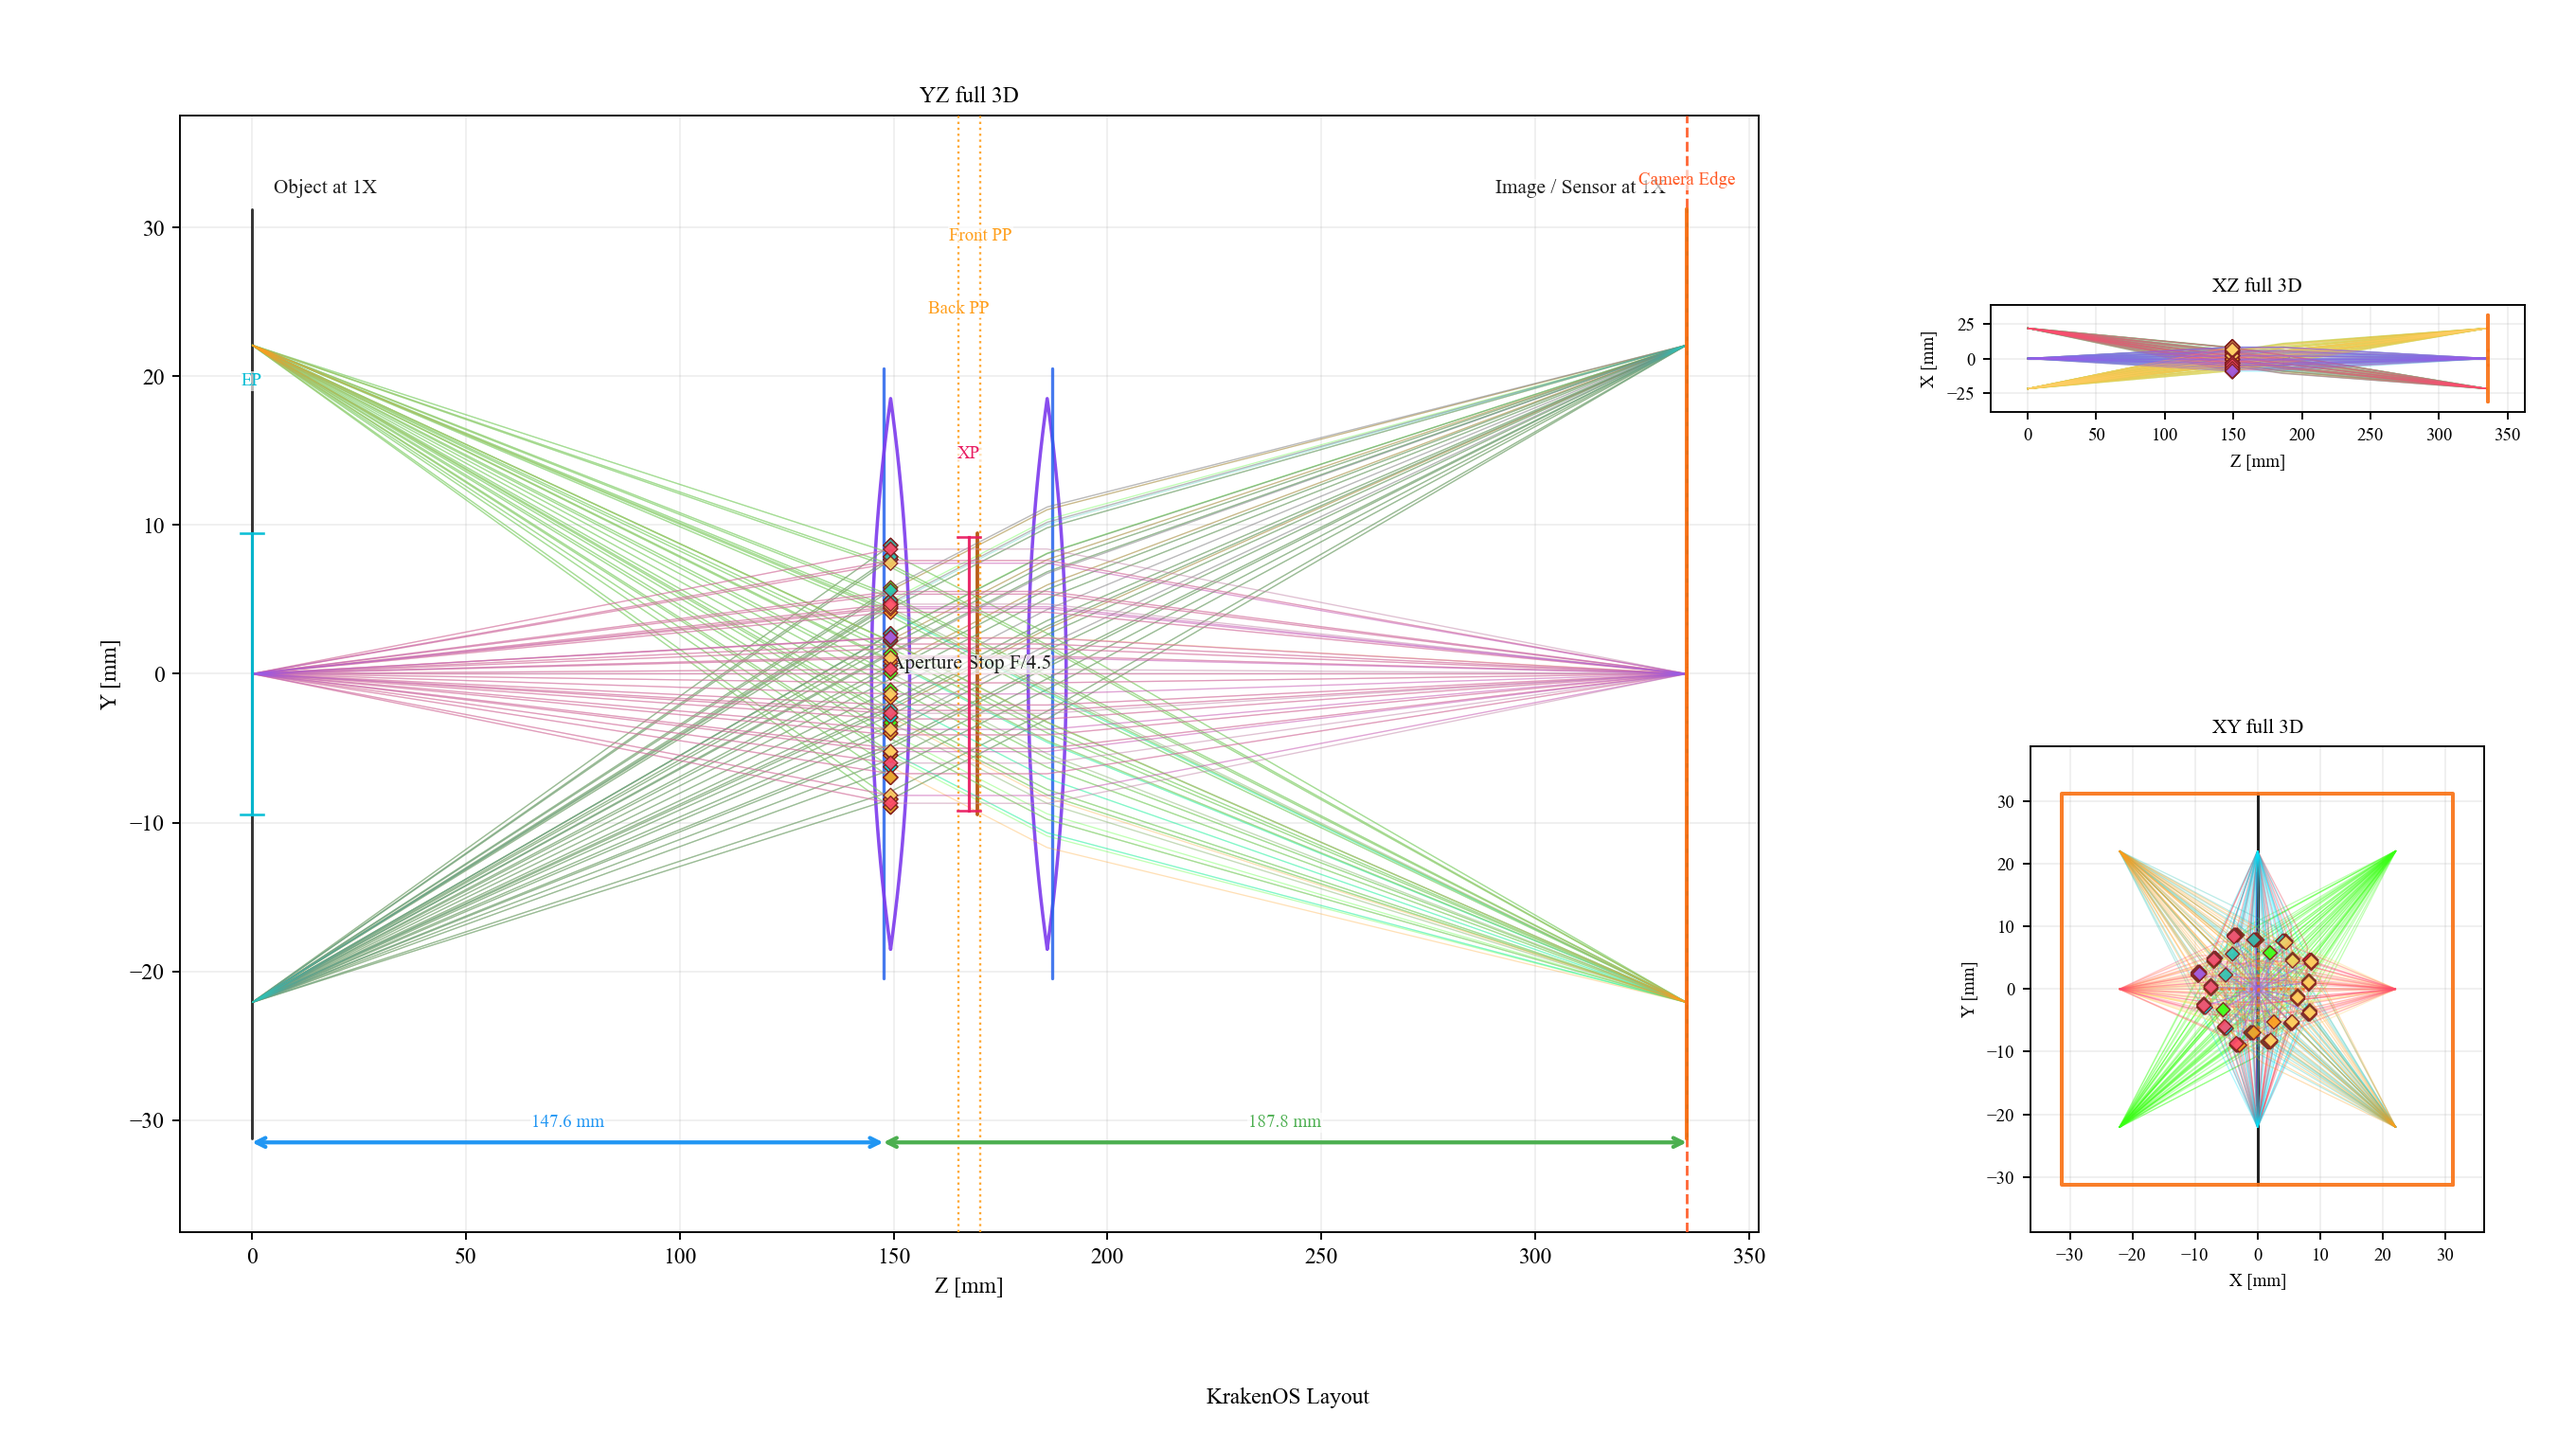
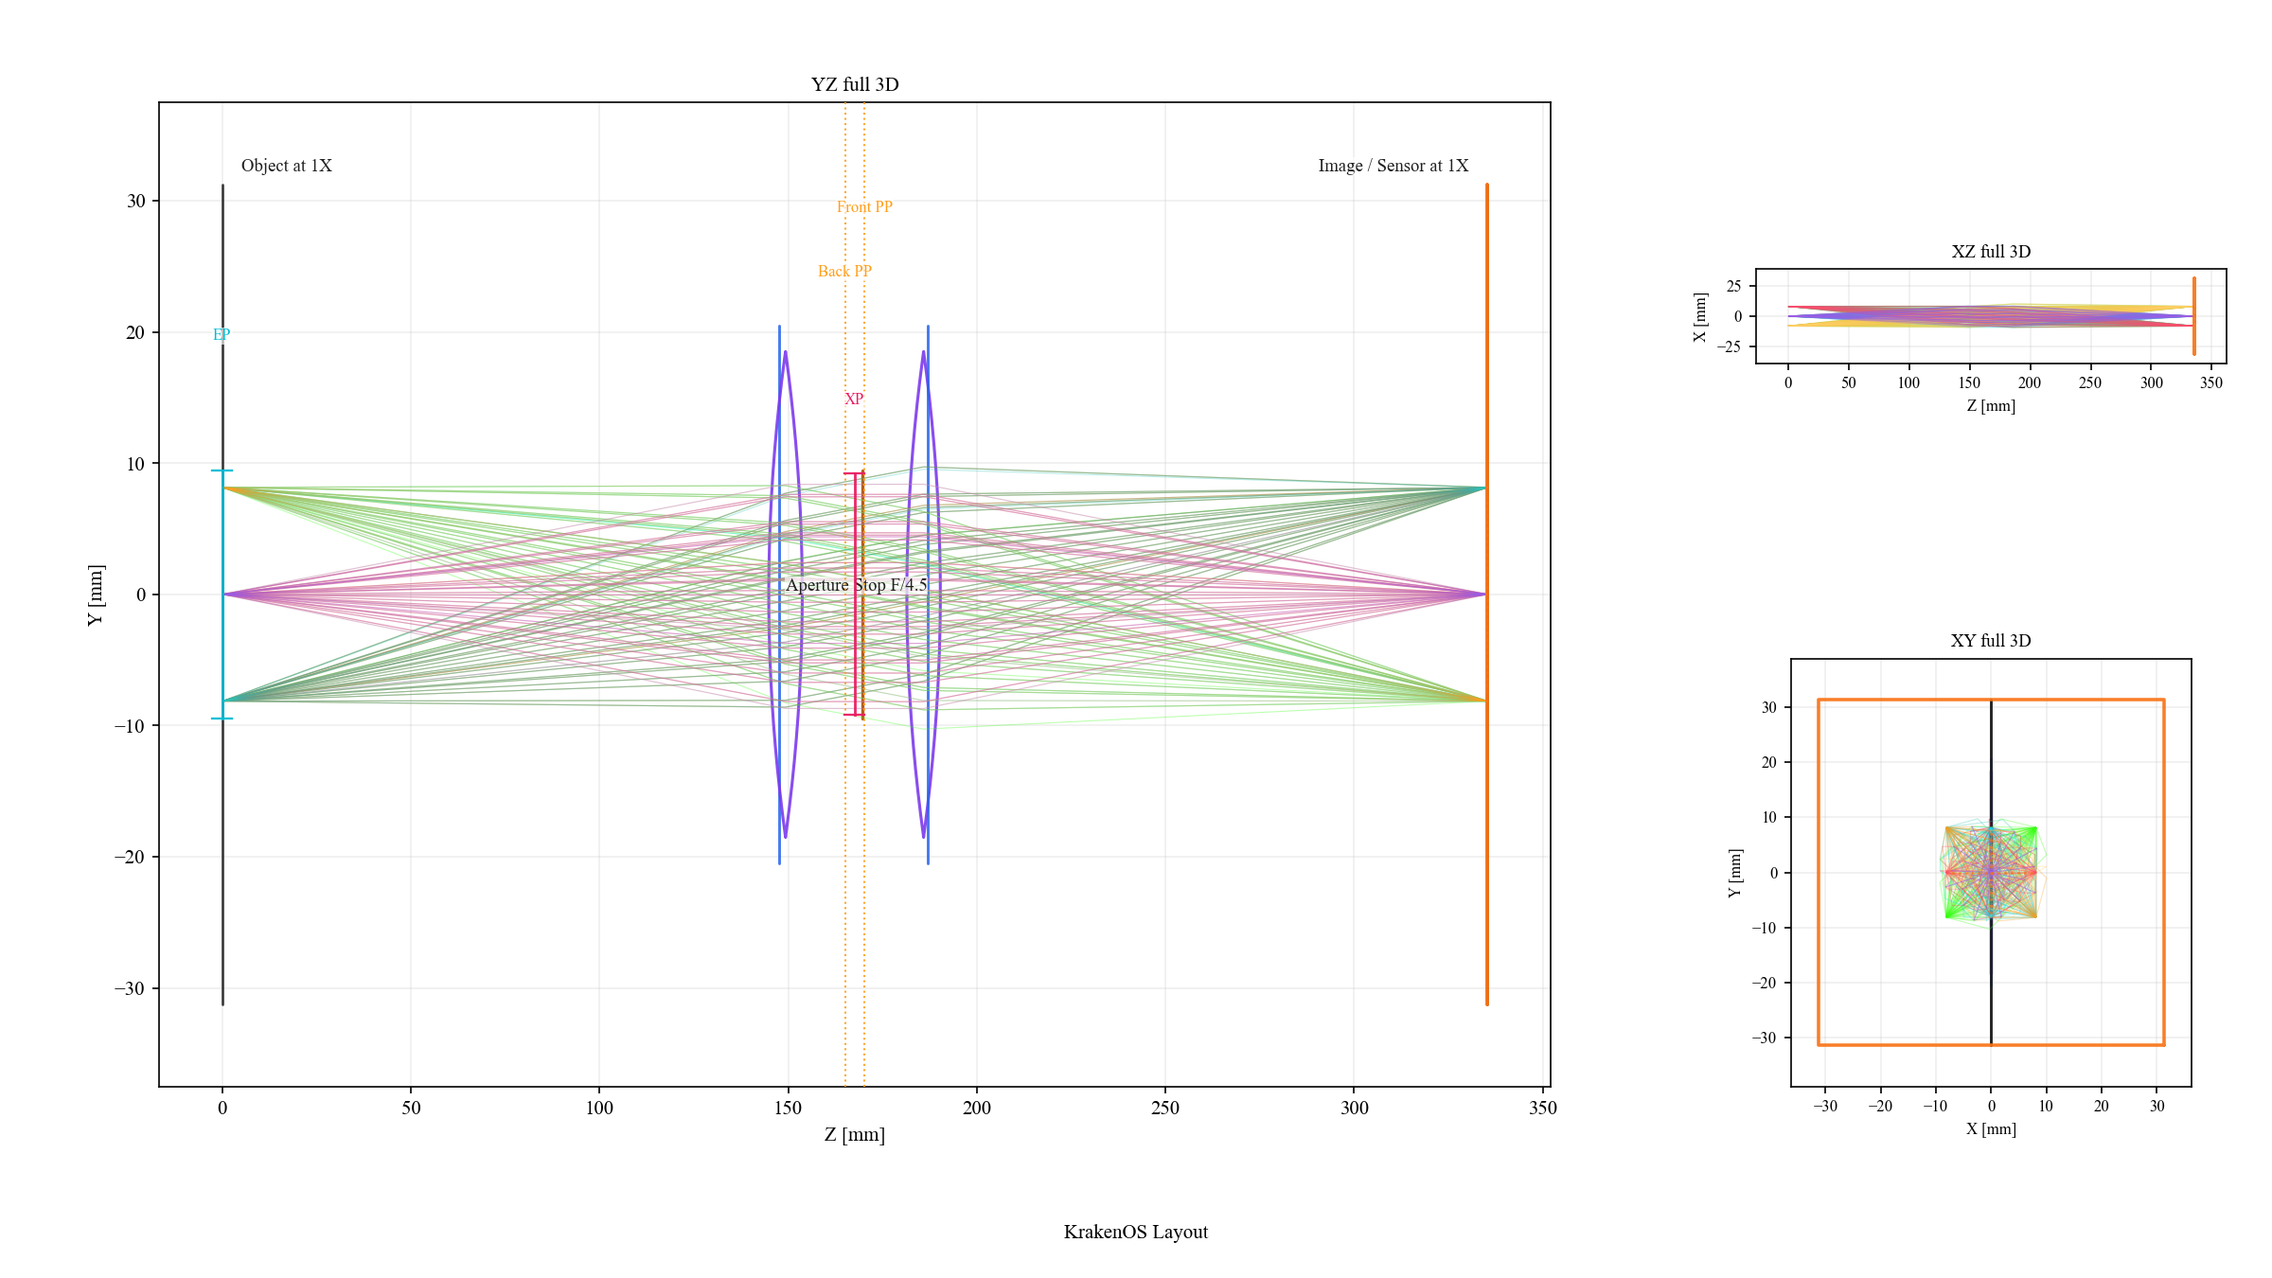
Inherit 150mm machine vision defaults for PYRITE 85

diff --git a/KrakenOS/common_optical_layouts/machine_vision_85mm_pyrite_datasheet_1x.py b/KrakenOS/common_optical_layouts/machine_vision_85mm_pyrite_datasheet_1x.py
@@ -63,22 +63,77 @@ SETTINGS = {
     "object_mode": "Finite",
     "display_orientation": "YZ",
     "projection_display_mode": "Full 3D",
-    "field_type": "Real Image Height",
-    "field_value": str(MAX_SENSOR_DIAMETER * 0.5),
-    "field_count": "3",
-    "analysis_surface": "Auto",
-    "aperture_type": "FNO",
-    "aperture_value": str(MIN_F_NUMBER),
     "wavelength": "0.55",
     "ray_count": "31",
     "ray_height_factor": "0.8",
+    "full_pupil": False,
     "source_model": "Pupil / field",
     "pupil_pattern": "Meridional fan",
     "source_radius": "5.0",
     "source_cone_angle": "0.0",
+    "gaussian_input_mode": "Waist + offset",
+    "gaussian_waist_radius": "0.5",
+    "gaussian_waist_offset": "0.0",
+    "gaussian_beam_diameter": "1.0",
+    "gaussian_full_divergence": "1.0",
+    "gaussian_waist_side": "Waist before source",
+    "gaussian_m2": "1.0",
+    "pupil_rad": "0.0",
+    "pupil_theta": "0.0",
+    "source_power": "1.0",
+    "source_seed": "1",
+    "source_x": "0.0",
+    "source_y": "0.0",
+    "source_z": "0.0",
+    "source_l": "0.0",
+    "source_m": "0.0",
+    "source_n": "1.0",
+    "source_angular_weight": "Uniform solid angle",
+    "scene_sources": [],
+    "scene_row_order": "after_object",
+    "analysis_surface": "Auto",
+    "analysis_branch_filter": "All paths",
+    "ray_display_mode": "All rays",
+    "detector_bins": "Auto",
+    "coherent_sum_mode": "By source ray",
+    "branch_field_propagation_mm": "0.0",
+    "aperture_type": "FNO",
+    "aperture_value": str(MIN_F_NUMBER),
     "spot_view_mode": "Grid",
+    "wavefront_style": "Wavefront Function",
+    "tolerance_compare_view": "Spot overlay",
+    "show_clipped_rays": False,
+    "show_path_labels": True,
     "show_cardinals": True,
-    "show_physical_distances": True,
+    "show_physical_distances": False,
+    "field_type": "Real Image Height",
+    "field_value": "11.52",
+    "field_count": "3",
+    "atmos_plot_mode": "Refraction / dispersion",
+    "atmos_observatory": "Manual",
+    "atmos_wavelength_min": "0.45",
+    "atmos_wavelength_max": "0.75",
+    "atmos_wavelength_count": "11",
+    "atmos_zenith_deg": "45.0",
+    "atmos_temperature_k": "283.15",
+    "atmos_pressure_pa": "101300",
+    "atmos_humidity": "0.5",
+    "atmos_co2_ppm": "400",
+    "atmos_latitude_deg": "31.0",
+    "atmos_altitude_m": "2800",
+    "image_diameter_mode": "Manual",
+    "trace_mode": "Auto",
+    "folded_detector_policy": "Trace events",
+    "nonseq_target_surface": "Auto",
+    "nonseq_ns_limit": "200",
+    "nonseq_energy_probability": False,
+    "camera_model": "Allied Vision hr25MCX",
+    "camera_step_path": "attachment/Cameras/3D_CAD_HR25xCXP.STEP",
+    "camera_step_rotation_x_deg": 0.0,
+    "camera_step_rotation_y_deg": 0.0,
+    "camera_step_rotation_z_deg": 270.0,
+    "camera_step_axis_offset_xy": [0.0, 0.0],
+    "camera_step_placement_offset_xyz": [0.0, 0.0, 0.0],
     "lens_step_path": STEP_PATH,
     "lens_step_largest_component_only": True,
     "lens_step_rotation_x_deg": 0.0,
@@ -86,6 +141,95 @@ SETTINGS = {
     "lens_step_rotation_z_deg": 0.0,
     "lens_step_axis_offset_xy": [0.0, 0.0],
     "lens_step_placement_offset_xyz": [0.0, 0.0, STEP_GLASS_ALIGNMENT_Z_OFFSET_MM],
+    "optical_step_path": "attachment/Lens/aspherized-achromatic-lenses/step_49665.step",
+    "optical_step_rotation_x_deg": 0.0,
+    "optical_step_rotation_y_deg": 0.0,
+    "optical_step_rotation_z_deg": 0.0,
+    "optical_step_axis_offset_xy": [0.0, 0.0],
+    "optical_step_placement_offset_xyz": [-7.643807211221997, 99.08622523293911, 235.30119908802823],
+    "led_step_path": "",
+    "led_step_rotation_x_deg": 0.0,
+    "led_step_rotation_y_deg": 0.0,
+    "led_step_rotation_z_deg": 0.0,
+    "led_object_edge_distance_mm": 0.0,
+    "led_step_object_edge_local_z": "",
+    "led_step_axis_offset_xy": [0.0, 0.0],
+    "led_step_placement_offset_xyz": [0.0, 0.0, 0.0],
+    "analysis_mode": "none",
+    "analysis_modes": [],
+    "layout_preview_mode": "none",
+    "auto_save_plot": False,
+    "external_camera": "None",
+    "camera_overlay_mode": "Off",
+    "metal_catalogs": [],
+    "optimization_workers": "Auto",
+    "selected_operands": ["Spot RMS"],
+    "operands": {
+        "Entrance pupil z": {
+            "weight": "1",
+            "target": "0",
+            "wavelength": "0.55",
+            "field": "0",
+            "surface": "Auto",
+        },
+        "Wavefront RMS": {
+            "weight": "1",
+            "target": "0",
+            "wavelength": "0.55",
+            "field": "0",
+            "surface": "Auto",
+        },
+        "EFFL": {
+            "weight": "1",
+            "target": "100",
+            "wavelength": "0.55",
+            "field": "0",
+            "surface": "Auto",
+        },
+        "Spot RMS": {
+            "weight": "1",
+            "target": "0",
+            "wavelength": "0.55",
+            "field": "0",
+            "surface": "Auto",
+        },
+        "Exit pupil z": {
+            "weight": "1",
+            "target": "0",
+            "wavelength": "0.55",
+            "field": "0",
+            "surface": "Auto",
+        },
+        "Thickness penalty": {
+            "weight": "1",
+            "target": "0.1",
+            "wavelength": "0.55",
+            "field": "0",
+            "surface": "Auto",
+        },
+        "Magnification": {
+            "weight": "1",
+            "target": "1",
+            "wavelength": "0.55",
+            "field": "0",
+            "surface": "Auto",
+        },
+        "MTF @ freq": {
+            "weight": "1",
+            "target": "0.5",
+            "wavelength": "0.55",
+            "field": "0",
+            "field_x": "0",
+            "field_y": "0",
+            "surface": "Auto",
+            "frequency": "5",
+            "mtf_mode": "Average",
+            "mtf_algorithm": "PSF FFT",
+        },
+    },
+    "tolerance_solve_presets": [],
+    "tolerance_manufacturing_templates": [],
+    "active_tolerance_solve_preset": "",
 }
 
 SURFACES = [

diff --git a/KrakenOS/UI/validate_machine_vision_pyrite_85_surrogate.py b/KrakenOS/UI/validate_machine_vision_pyrite_85_surrogate.py
@@ -12,6 +12,7 @@ from KrakenOS.UI.layout_library import discover_layouts, load_python_data
 
 PROJECT_ROOT = Path(__file__).resolve().parents[2]
 LAYOUT_PATH = PROJECT_ROOT / "KrakenOS" / "common_optical_layouts" / "machine_vision_85mm_pyrite_datasheet_1x.py"
+REFERENCE_LAYOUT_PATH = PROJECT_ROOT / "KrakenOS" / "common_optical_layouts" / "machine_vision_150mm_measured.py"
 DOC_PATH = PROJECT_ROOT / "docs" / "source" / "tutorials" / "machine_vision_pyrite_85_surrogate.rst"
 INDEX_PATH = PROJECT_ROOT / "docs" / "source" / "tutorials" / "index.rst"
 STATIC_IMAGE = (
@@ -74,6 +75,7 @@ def _require(condition: bool, message: str) -> None:
 def main() -> int:
     module = importlib.import_module("KrakenOS.common_optical_layouts.machine_vision_85mm_pyrite_datasheet_1x")
     info = load_python_data(LAYOUT_PATH)
+    reference_info = load_python_data(REFERENCE_LAYOUT_PATH)
     layouts = discover_layouts(PROJECT_ROOT / "KrakenOS" / "common_optical_layouts")
 
     group_1_z = float(module.GROUP_1_Z)
@@ -96,6 +98,23 @@ def main() -> int:
     doc = DOC_PATH.read_text(encoding="utf-8")
     index = INDEX_PATH.read_text(encoding="utf-8")
     settings = dict(getattr(module, "SETTINGS", {}))
+    reference_settings = dict(reference_info.get("settings", {}))
+    override_keys = {
+        "aperture_value",
+        "field_value",
+        "lens_step_path",
+        "lens_step_largest_component_only",
+        "lens_step_rotation_x_deg",
+        "lens_step_rotation_y_deg",
+        "lens_step_rotation_z_deg",
+        "lens_step_axis_offset_xy",
+        "lens_step_placement_offset_xyz",
+    }
+    inherited_mismatches = [
+        key
+        for key, value in reference_settings.items()
+        if key not in override_keys and settings.get(key) != value
+    ]
     step_path = PROJECT_ROOT / str(module.STEP_PATH)
     glass_fits = _extract_step_glass_fits(step_path)
     rear_fit = glass_fits[0] if glass_fits else None
@@ -105,6 +124,13 @@ def main() -> int:
         ("layout file exists", LAYOUT_PATH.exists()),
         ("layout has seven rows", len(info["surfaces"]) == 7),
         ("layout is in Machine Vision menu", module.TITLE in layouts.machine_vision_files),
+        ("inherits 150 mm measured operational defaults", inherited_mismatches == []),
+        (
+            "inherits 150 mm measured camera",
+            settings.get("camera_model") == reference_settings.get("camera_model")
+            and settings.get("camera_step_path") == reference_settings.get("camera_step_path")
+            and settings.get("camera_step_rotation_z_deg") == reference_settings.get("camera_step_rotation_z_deg"),
+        ),
         ("docs page exists", DOC_PATH.exists() and "PYRITE 4.5/85/0.5x-2.0x V38" in doc),
         ("docs page is indexed", "machine_vision_pyrite_85_surrogate" in index),
         ("layout screenshot exists", STATIC_IMAGE.exists() and STATIC_IMAGE.stat().st_size > 2048),
@@ -154,6 +180,10 @@ def main() -> int:
         print("PYRITE 85 mm surrogate validation failed:")
         for name in failed:
             print(f"- {name}")
+        if inherited_mismatches:
+            print("Inherited-setting mismatches:")
+            for key in inherited_mismatches[:20]:
+                print(f"- {key}")
         return 1
     print(
         "PYRITE 85 mm surrogate validation passed: "

diff --git a/docs/source/tutorials/machine_vision_pyrite_85_surrogate.rst b/docs/source/tutorials/machine_vision_pyrite_85_surrogate.rst
@@ -44,7 +44,7 @@ The model uses these public datasheet values:
      - Sanity check for the F/4.5 finite-conjugate model
    * - Maximum sensor size
      - 62.5 mm
-     - Image and object row diameter; real-image half-field 31.25 mm
+     - Image and object row diameter; the default sampled field uses the shared camera workflow below
    * - Maximum angle of view
      - 21 degrees
      - Field sanity check
@@ -107,6 +107,25 @@ lens STEP placement offset of ``-3.547201484 mm`` so the STEP's first and last
 glass vertices overlay the surrogate's front and rear optical vertex datums.
 The mechanical front shoulder of the STEP is intentionally not used as the
 optical datum.
+
+Default UI Settings
+-------------------
+
+The preset intentionally follows the same working defaults as
+``Machine Vision 150Mm Measured`` so the two layouts can be used the same way in
+Open 3D.  It inherits the same ray display, source, detector, non-sequential,
+tolerance, atmosphere, optimization, and CAD overlay defaults.  In particular,
+it opens with the same Allied Vision ``hr25MCX`` camera model and
+``attachment/Cameras/3D_CAD_HR25xCXP.STEP`` camera overlay.
+
+Only lens-specific defaults differ from the 150 mm measured layout:
+
+* The aperture default is ``F/4.5`` from the PYRITE datasheet.
+* The real-image field default is ``11.52 mm`` so the initial field sampling
+  matches the shared camera workflow rather than the full 62.5 mm image-circle
+  capability.
+* The lens STEP overlay uses ``attachment/Lens/1072517_00165969_001.stp`` and
+  the glass-vertex alignment offset described above.
 
 How The Blackbox Is Built
 -------------------------
